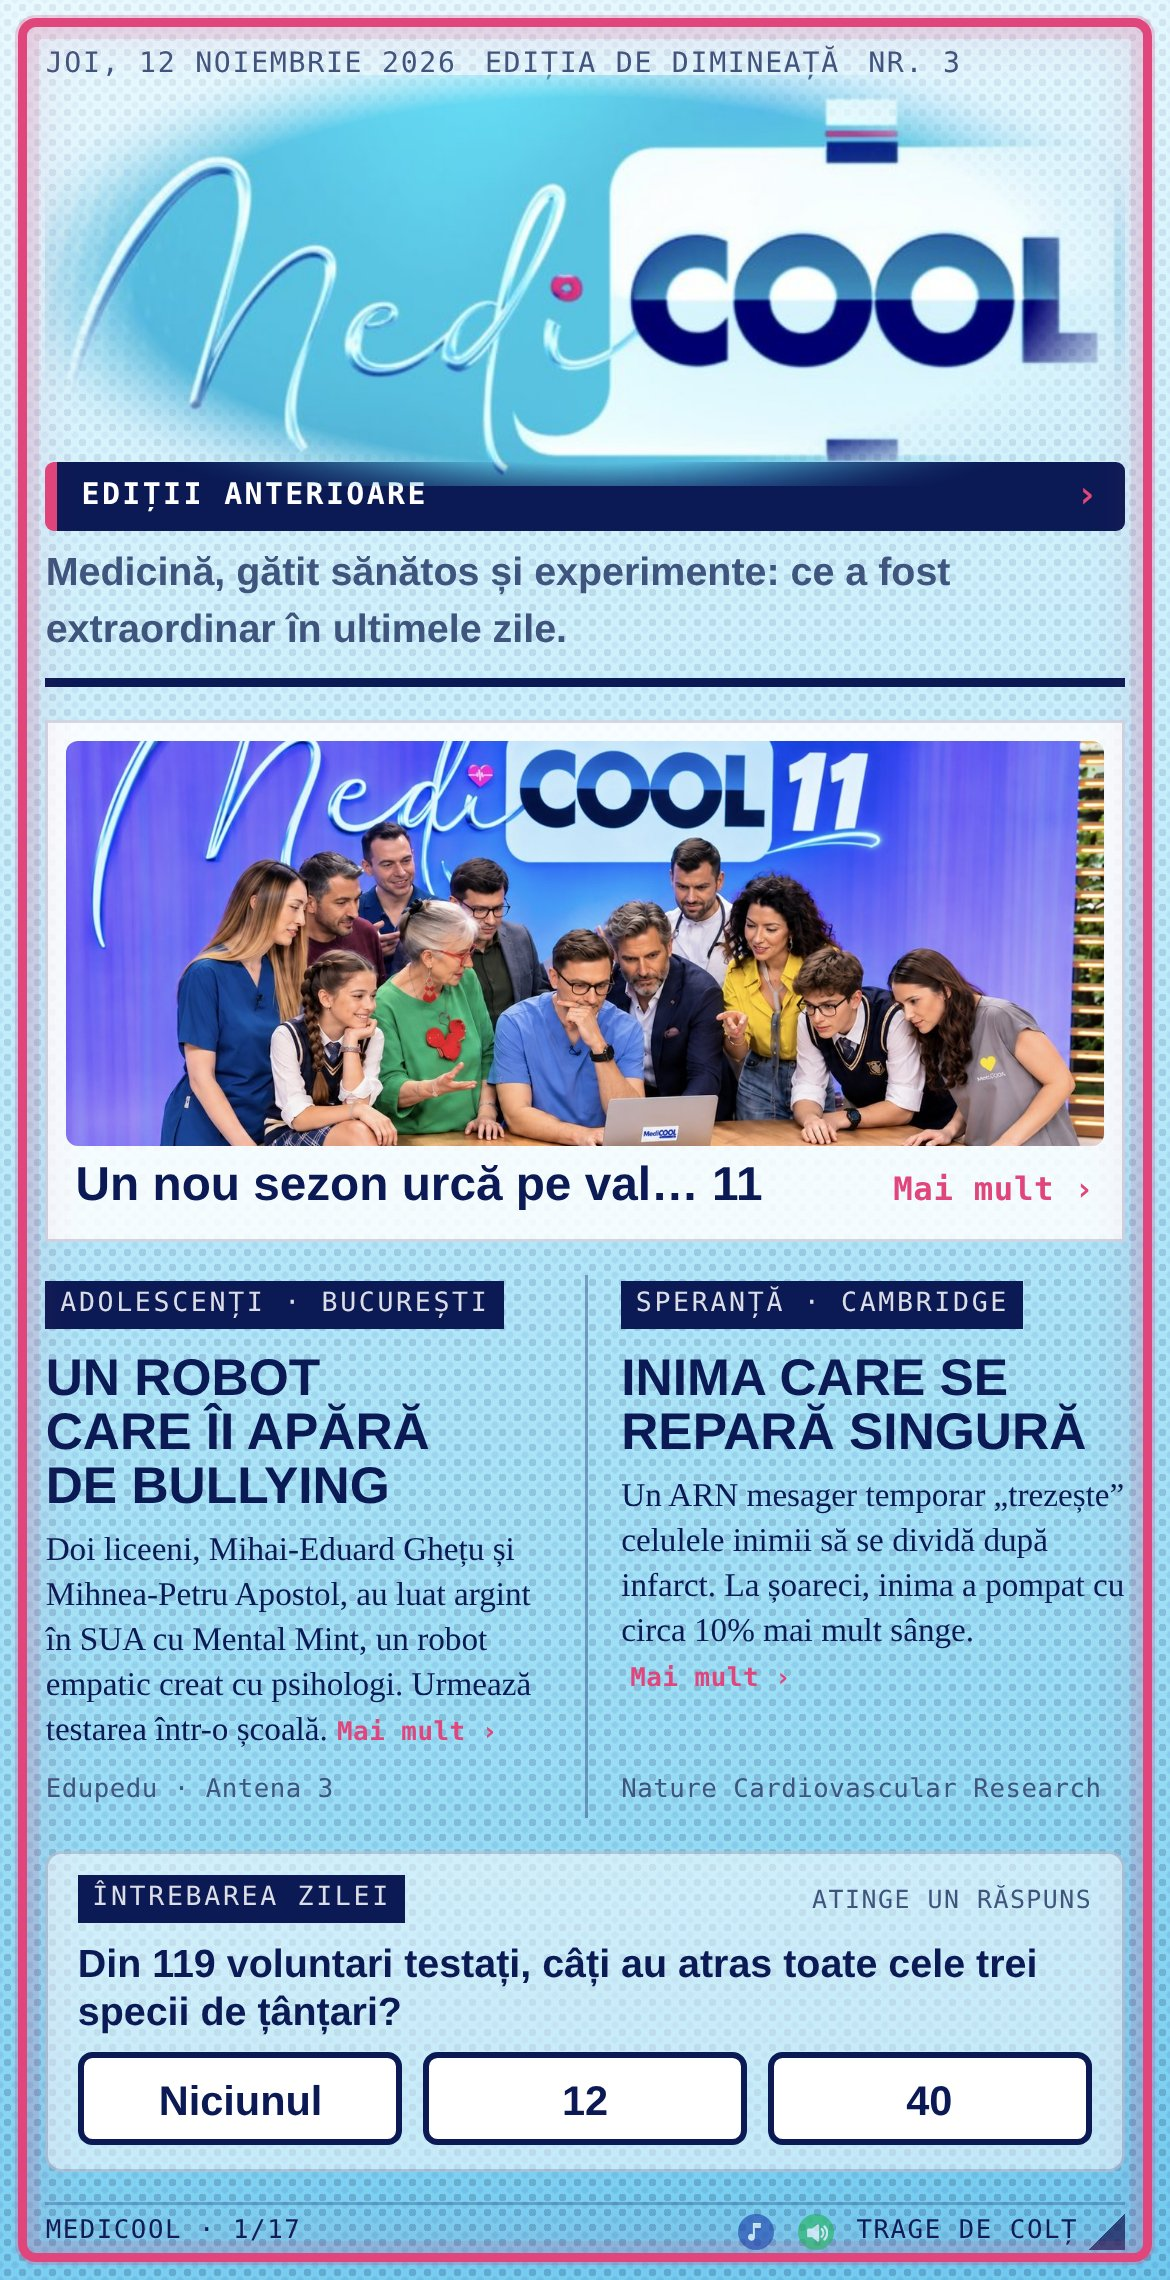
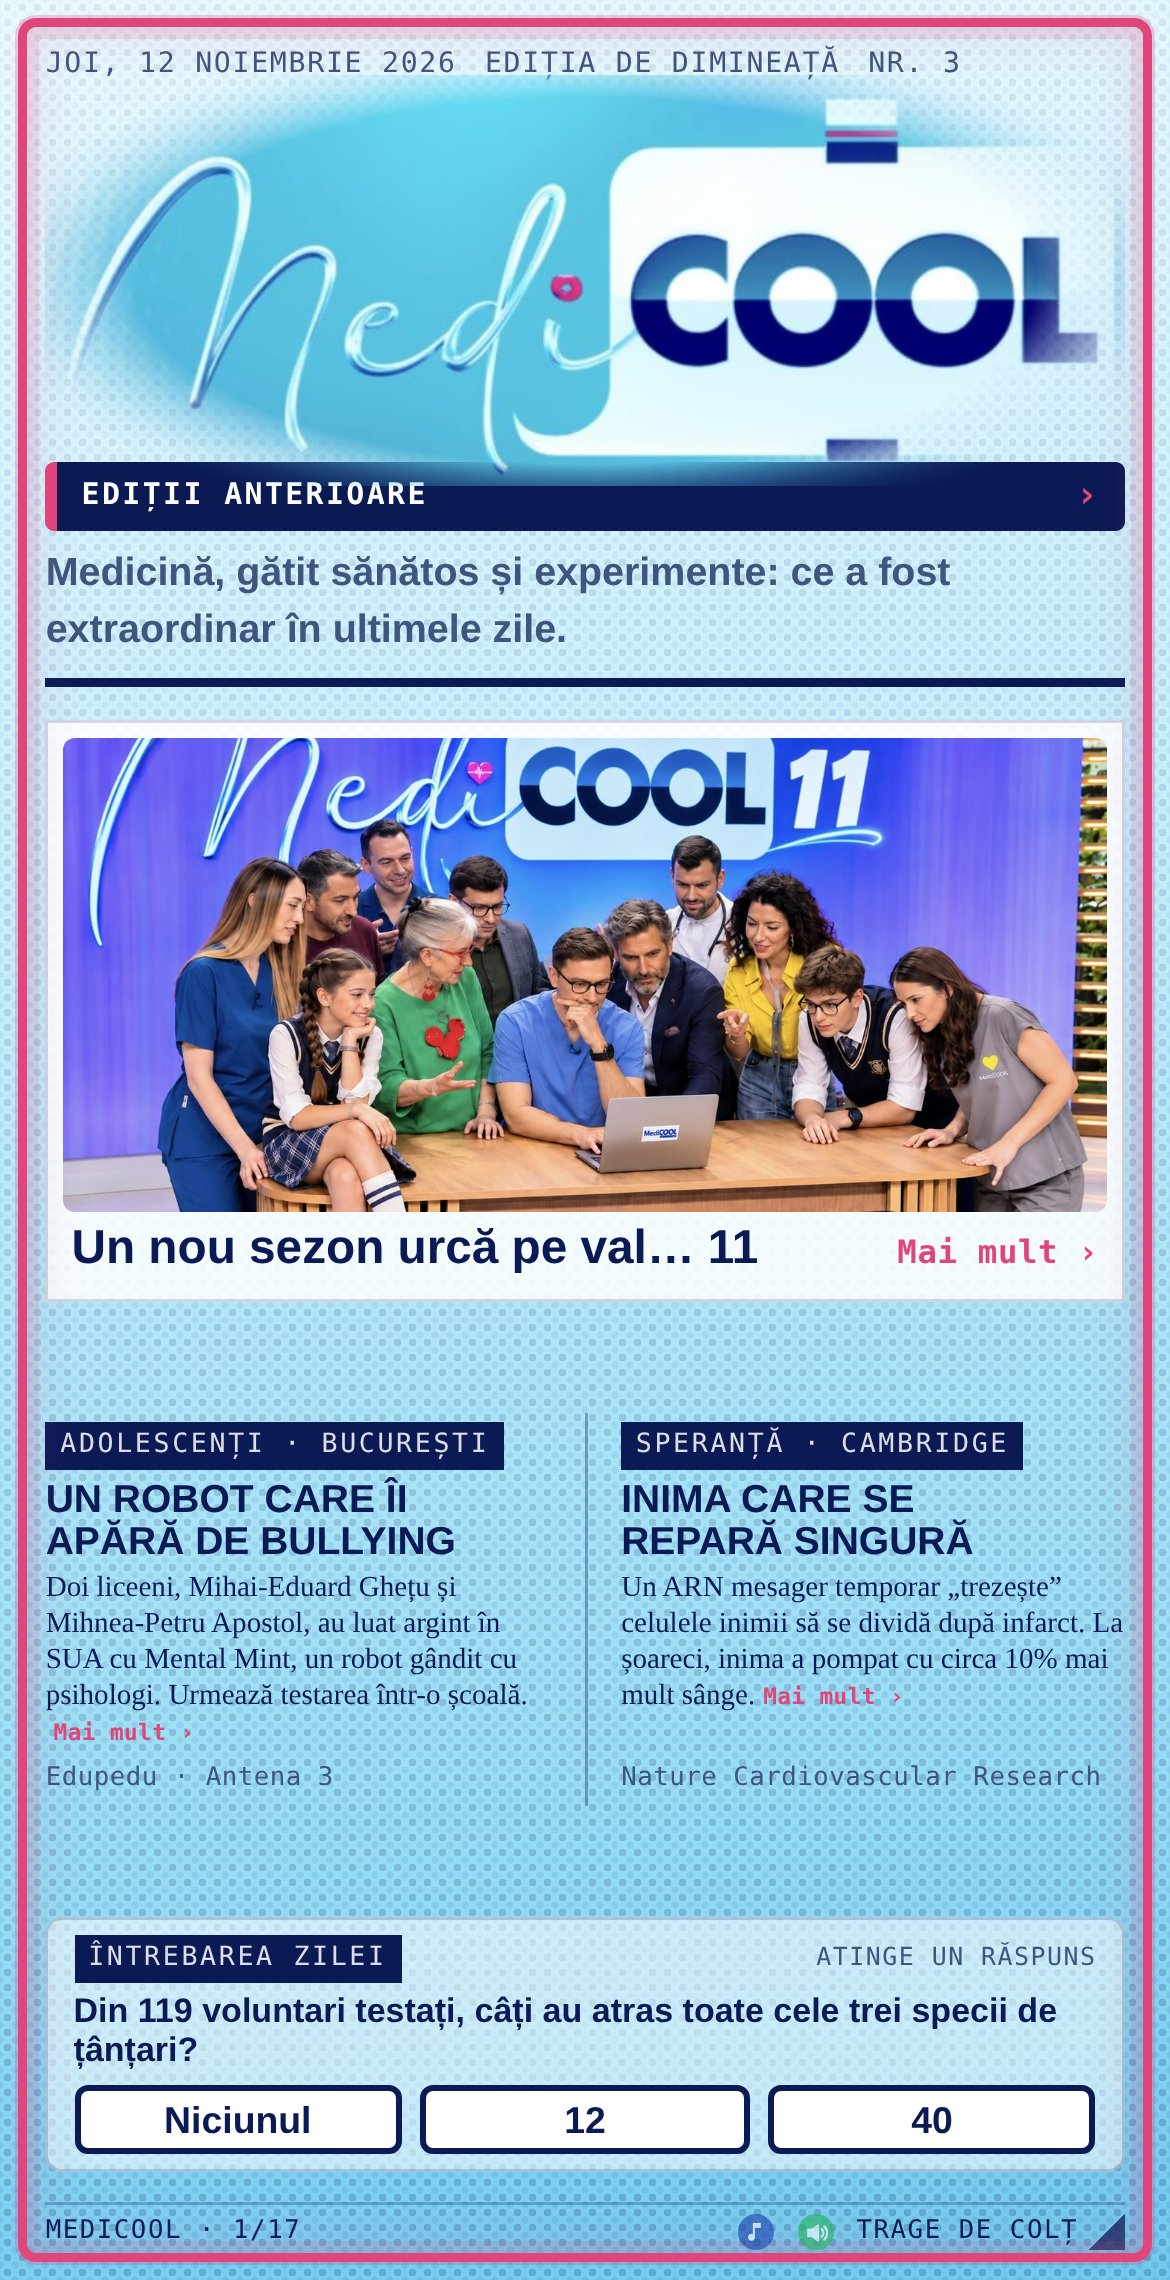
Coperta: fotografia echipei întreagă, fără decupaj; rubricile de dedesubt mai compacte
Claude-Session: https://claude.ai/code/session_01FzDV5b68UMWScboPR3TvHi

Changed region(s): [[0.0308, 0.3114, 0.9846, 0.9654], [0.0308, 0.3114, 0.1538, 0.4671]]

diff --git a/2026-11-12/ziar.html b/2026-11-12/ziar.html
@@ -300,13 +300,15 @@ html.app,html.app body{background:#0B1A55}html.app body{padding:env(safe-area-in
 .recph.medal{aspect-ratio:1/1;width:44%;right:-1%;border-radius:50%;object-fit:cover;object-position:50% 50%;background:#fff;border:.32em solid #fff;box-shadow:0 0 0 .2em #1C3FA8,0 8px 18px rgba(11,26,85,.3);filter:none}
 /* coperta: în locul cuprinsului, fotografia echipei și anunțul sezonului 11 (cuprinsul rămâne ascuns, îl folosește meniul cu raze) */
 .page.cover .tile.tochide{display:none}
-.tile.s11{flex:1 1 auto;min-height:6em;display:flex;flex-direction:column;gap:.35em;padding:.45em}
-.tile.s11 .s11ph{display:block;flex:1 1 auto;min-height:0;margin:0;position:relative;overflow:hidden;border-radius:4px;white-space:normal}
-.tile.s11 .s11ph img{position:absolute;inset:0;width:100%;height:100%;object-fit:cover;object-position:50% 0%;display:block}
+.tile.s11{flex:none;display:flex;flex-direction:column;gap:.35em;padding:.45em}
+.tile.s11 .s11ph{display:block;flex:none;margin:0;position:relative;overflow:hidden;border-radius:4px;white-space:normal;aspect-ratio:1671/763}
+.tile.s11 .s11ph img{position:absolute;inset:0;width:100%;height:100%;object-fit:contain;display:block}
 .tile.s11 .s11k{position:absolute;left:.45em;top:.45em;z-index:2;margin:0}
 .tile.s11 .s11t{flex:none;display:flex;align-items:baseline;justify-content:space-between;gap:.6em;padding:0 .2em .1em}
 .tile.s11 .s11t h3{margin:0;font-family:var(--font-display);font-weight:900;font-size:1.15em;line-height:1.1}
 .tile.s11 .s11t .more{flex:none;margin:0 0 .1em}
+.page.cover .frontcols h2{font-size:.94em}.page.cover .frontcols p{font-size:.7em;line-height:1.24}.page.cover .frontcols .fcol{gap:.22em}.page.cover .quiz{padding:.35em .6em;gap:.25em}.page.cover .quiz .qq{font-size:.82em}.page.cover .quiz .qopt{padding:.18em 0;font-size:.9em}.page.cover .tile.s11{gap:.25em;padding:.35em}
+
 </style>
 </head>
 <body>
@@ -333,7 +335,7 @@ subiecte_recente: 2026-11-09 copil de piatră Somaliland; gel smalț Nottingham;
       <article class="fcol">
         <span class="kicker">Adolescenți · București</span>
         <h2>Un robot care îi apără de bullying</h2>
-        <p>Doi liceeni, Mihai-Eduard Ghețu și Mihnea-Petru Apostol, au luat argint în SUA cu Mental Mint, un robot empatic creat cu psihologi. Urmează testarea într-o școală.<a class="more" href="https://www.edupedu.ro/foto-doua-medalii-de-argint-pentru-elevii-romani-la-olimpiada-internationala-de-inovatie-si-inteligenta-artificiala-2026-desfasurata-la-boston/" target="_blank" rel="noopener">Mai mult ›</a></p>
+        <p>Doi liceeni, Mihai-Eduard Ghețu și Mihnea-Petru Apostol, au luat argint în SUA cu Mental Mint, un robot gândit cu psihologi. Urmează testarea într-o școală.<a class="more" href="https://www.edupedu.ro/foto-doua-medalii-de-argint-pentru-elevii-romani-la-olimpiada-internationala-de-inovatie-si-inteligenta-artificiala-2026-desfasurata-la-boston/" target="_blank" rel="noopener">Mai mult ›</a></p>
         <span class="src">Edupedu · Antena 3</span>
       </article>
       <article class="fcol">

diff --git a/master/ziar-master.html b/master/ziar-master.html
@@ -300,13 +300,15 @@ html.app,html.app body{background:#0B1A55}html.app body{padding:env(safe-area-in
 .recph.medal{aspect-ratio:1/1;width:44%;right:-1%;border-radius:50%;object-fit:cover;object-position:50% 50%;background:#fff;border:.32em solid #fff;box-shadow:0 0 0 .2em #1C3FA8,0 8px 18px rgba(11,26,85,.3);filter:none}
 /* coperta: în locul cuprinsului, fotografia echipei și anunțul sezonului 11 (cuprinsul rămâne ascuns, îl folosește meniul cu raze) */
 .page.cover .tile.tochide{display:none}
-.tile.s11{flex:1 1 auto;min-height:6em;display:flex;flex-direction:column;gap:.35em;padding:.45em}
-.tile.s11 .s11ph{display:block;flex:1 1 auto;min-height:0;margin:0;position:relative;overflow:hidden;border-radius:4px;white-space:normal}
-.tile.s11 .s11ph img{position:absolute;inset:0;width:100%;height:100%;object-fit:cover;object-position:50% 0%;display:block}
+.tile.s11{flex:none;display:flex;flex-direction:column;gap:.35em;padding:.45em}
+.tile.s11 .s11ph{display:block;flex:none;margin:0;position:relative;overflow:hidden;border-radius:4px;white-space:normal;aspect-ratio:1671/763}
+.tile.s11 .s11ph img{position:absolute;inset:0;width:100%;height:100%;object-fit:contain;display:block}
 .tile.s11 .s11k{position:absolute;left:.45em;top:.45em;z-index:2;margin:0}
 .tile.s11 .s11t{flex:none;display:flex;align-items:baseline;justify-content:space-between;gap:.6em;padding:0 .2em .1em}
 .tile.s11 .s11t h3{margin:0;font-family:var(--font-display);font-weight:900;font-size:1.15em;line-height:1.1}
 .tile.s11 .s11t .more{flex:none;margin:0 0 .1em}
+.page.cover .frontcols h2{font-size:.94em}.page.cover .frontcols p{font-size:.7em;line-height:1.24}.page.cover .frontcols .fcol{gap:.22em}.page.cover .quiz{padding:.35em .6em;gap:.25em}.page.cover .quiz .qq{font-size:.82em}.page.cover .quiz .qopt{padding:.18em 0;font-size:.9em}.page.cover .tile.s11{gap:.25em;padding:.35em}
+
 </style>
 </head>
 <body>

diff --git a/2026-11-11/ziar.html b/2026-11-11/ziar.html
@@ -269,13 +269,15 @@ p{margin:0}
 html.app,html.app body{background:#0B1A55}html.app body{padding:env(safe-area-inset-top,0px) 0 env(safe-area-inset-bottom,0px)}
 /* coperta: în locul cuprinsului, fotografia echipei și anunțul sezonului 11 (cuprinsul rămâne ascuns, îl folosește meniul cu raze) */
 .page.cover .tile.tochide{display:none}
-.tile.s11{flex:1 1 auto;min-height:6em;display:flex;flex-direction:column;gap:.35em;padding:.45em}
-.tile.s11 .s11ph{display:block;flex:1 1 auto;min-height:0;margin:0;position:relative;overflow:hidden;border-radius:4px;white-space:normal}
-.tile.s11 .s11ph img{position:absolute;inset:0;width:100%;height:100%;object-fit:cover;object-position:50% 0%;display:block}
+.tile.s11{flex:none;display:flex;flex-direction:column;gap:.35em;padding:.45em}
+.tile.s11 .s11ph{display:block;flex:none;margin:0;position:relative;overflow:hidden;border-radius:4px;white-space:normal;aspect-ratio:1671/763}
+.tile.s11 .s11ph img{position:absolute;inset:0;width:100%;height:100%;object-fit:contain;display:block}
 .tile.s11 .s11k{position:absolute;left:.45em;top:.45em;z-index:2;margin:0}
 .tile.s11 .s11t{flex:none;display:flex;align-items:baseline;justify-content:space-between;gap:.6em;padding:0 .2em .1em}
 .tile.s11 .s11t h3{margin:0;font-family:var(--font-display);font-weight:900;font-size:1.15em;line-height:1.1}
 .tile.s11 .s11t .more{flex:none;margin:0 0 .1em}
+.page.cover .frontcols h2{font-size:.94em}.page.cover .frontcols p{font-size:.7em;line-height:1.24}.page.cover .frontcols .fcol{gap:.22em}.page.cover .quiz{padding:.35em .6em;gap:.25em}.page.cover .quiz .qq{font-size:.82em}.page.cover .quiz .qopt{padding:.18em 0;font-size:.9em}.page.cover .tile.s11{gap:.25em;padding:.35em}
+
 </style>
 </head>
 <body>
